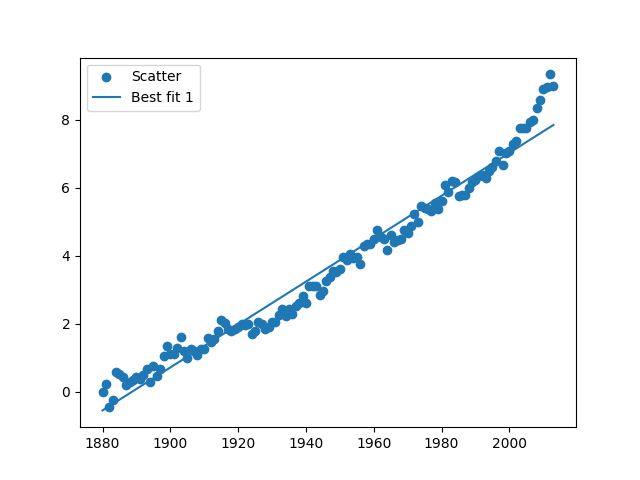
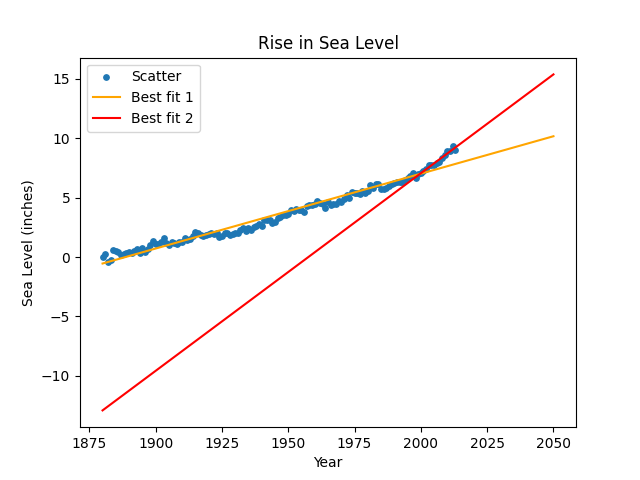
final proj

diff --git a/sea_level_predictor.py b/sea_level_predictor.py
@@ -7,25 +7,32 @@ def draw_plot():
     df = pd.read_csv("epa-sea-level.csv")
 
     # Create scatter plot
-    plt.scatter(df['Year'], df['CSIRO Adjusted Sea Level'], label='Scatter')
+    plt.scatter(df['Year'], df['CSIRO Adjusted Sea Level'], label='Scatter', s=15)
 
     # Create first line of best fit
     lr = linregress(df['Year'], df['CSIRO Adjusted Sea Level'])
-    x = df['Year']
+    x = pd.concat([df['Year'],pd.DataFrame(range(2014,2051))], ignore_index=True)
     y = lr.intercept + x*lr.slope
-    plt.plot(x,y, label='Best fit 1', color=orange)
-    plt.legend() 
-    plt.show()
+    plt.plot(x,y, label='Best fit 1', color='orange')
+
+    
 
 
     # Create second line of best fit
-
+    df2 =df[df['Year'] >= 2000]
+    lr2 = linregress(df2['Year'], df2['CSIRO Adjusted Sea Level'])
+    x2 = pd.concat([df['Year'],pd.DataFrame(range(2014,2051))], ignore_index=True)
+    y2 = lr2.intercept + x2*lr2.slope
+    plt.plot(x2,y2, label='Best fit 2', color='red')
 
     # Add labels and title
-
+    plt.xlabel('Year')
+    plt.ylabel('Sea Level (inches)')
+    plt.title('Rise in Sea Level')
+    plt.legend() 
+    plt.show()
     
     # Save plot and return data for testing (DO NOT MODIFY)
     plt.savefig('sea_level_plot.png')
     return plt.gca()
 
-draw_plot()
